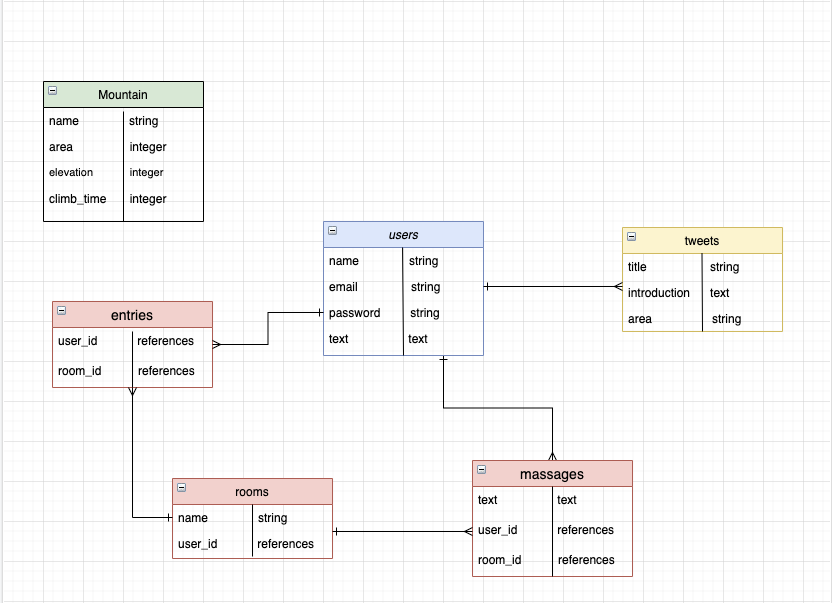
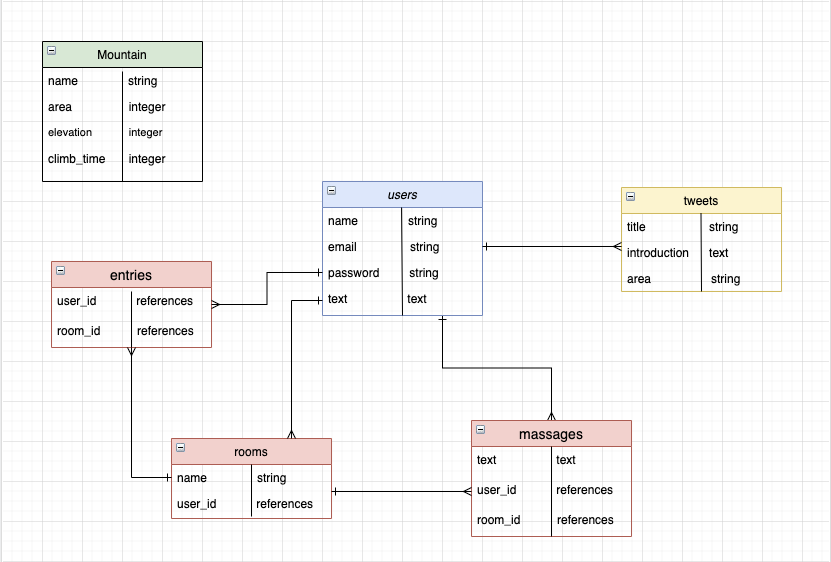
アソシエーションの追加

diff --git a/app/models/room.rb b/app/models/room.rb
@@ -1,7 +1,7 @@
 class Room < ApplicationRecord
   validates :name, presence: true
 
-
+  belongs_to :user, dependent: :destroy
   has_many :messages, dependent: :destroy
   has_many :entries, dependent: :destroy
   has_many :users, through: :entries, dependent: :destroy

diff --git a/app/controllers/pages_controller.rb b/app/controllers/pages_controller.rb
@@ -7,6 +7,7 @@ class PagesController < ApplicationController
 
   def top
     @tweets = Tweet.includes(:user).order(id: 'DESC')
+    @rooms = Room.includes(:messages, :entries, :users, :user).order(id: 'DESC')
   end
 
   def show
